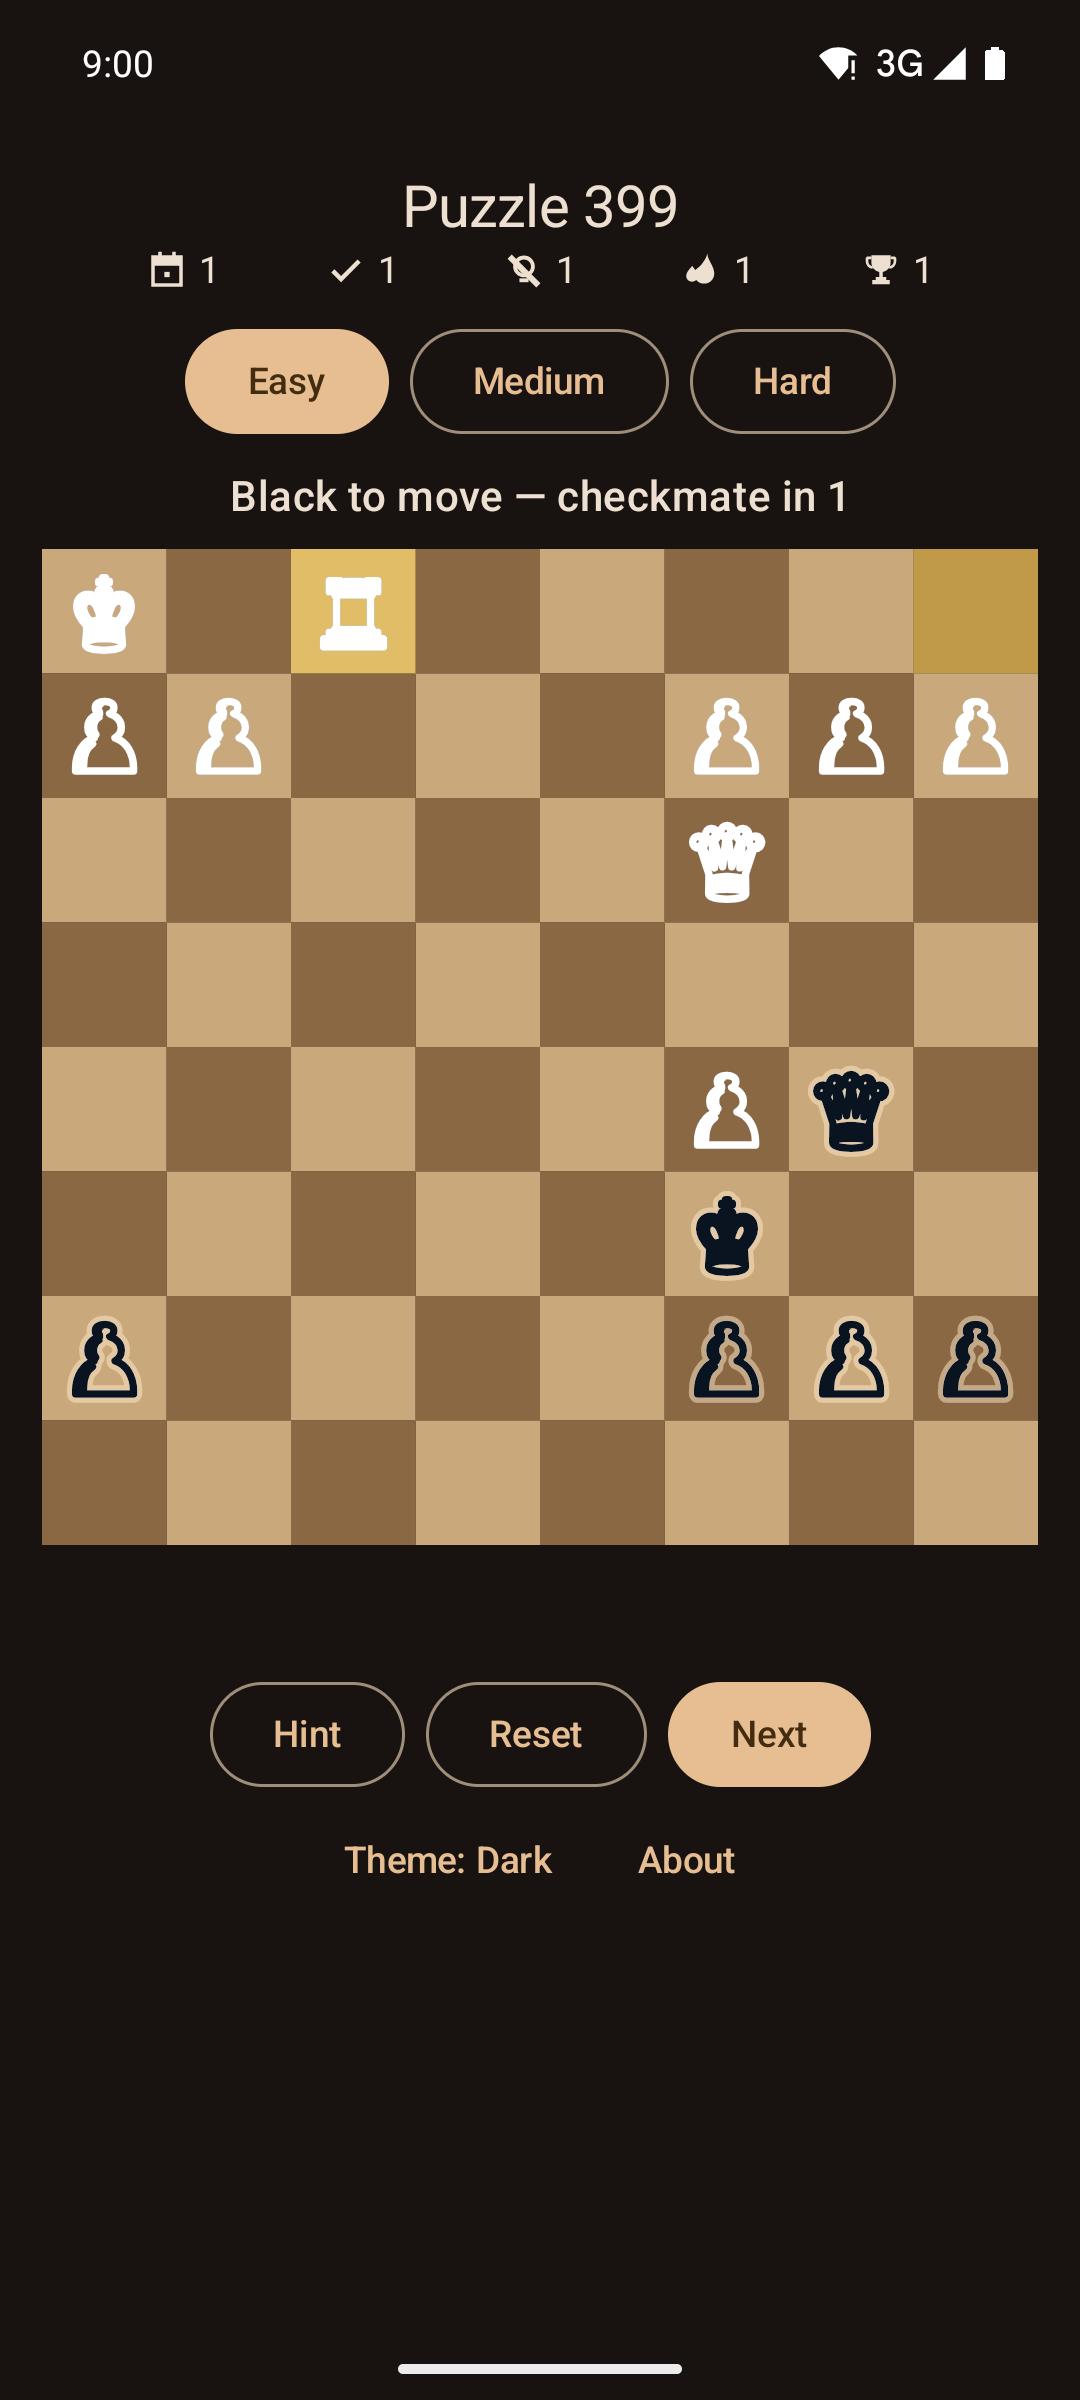
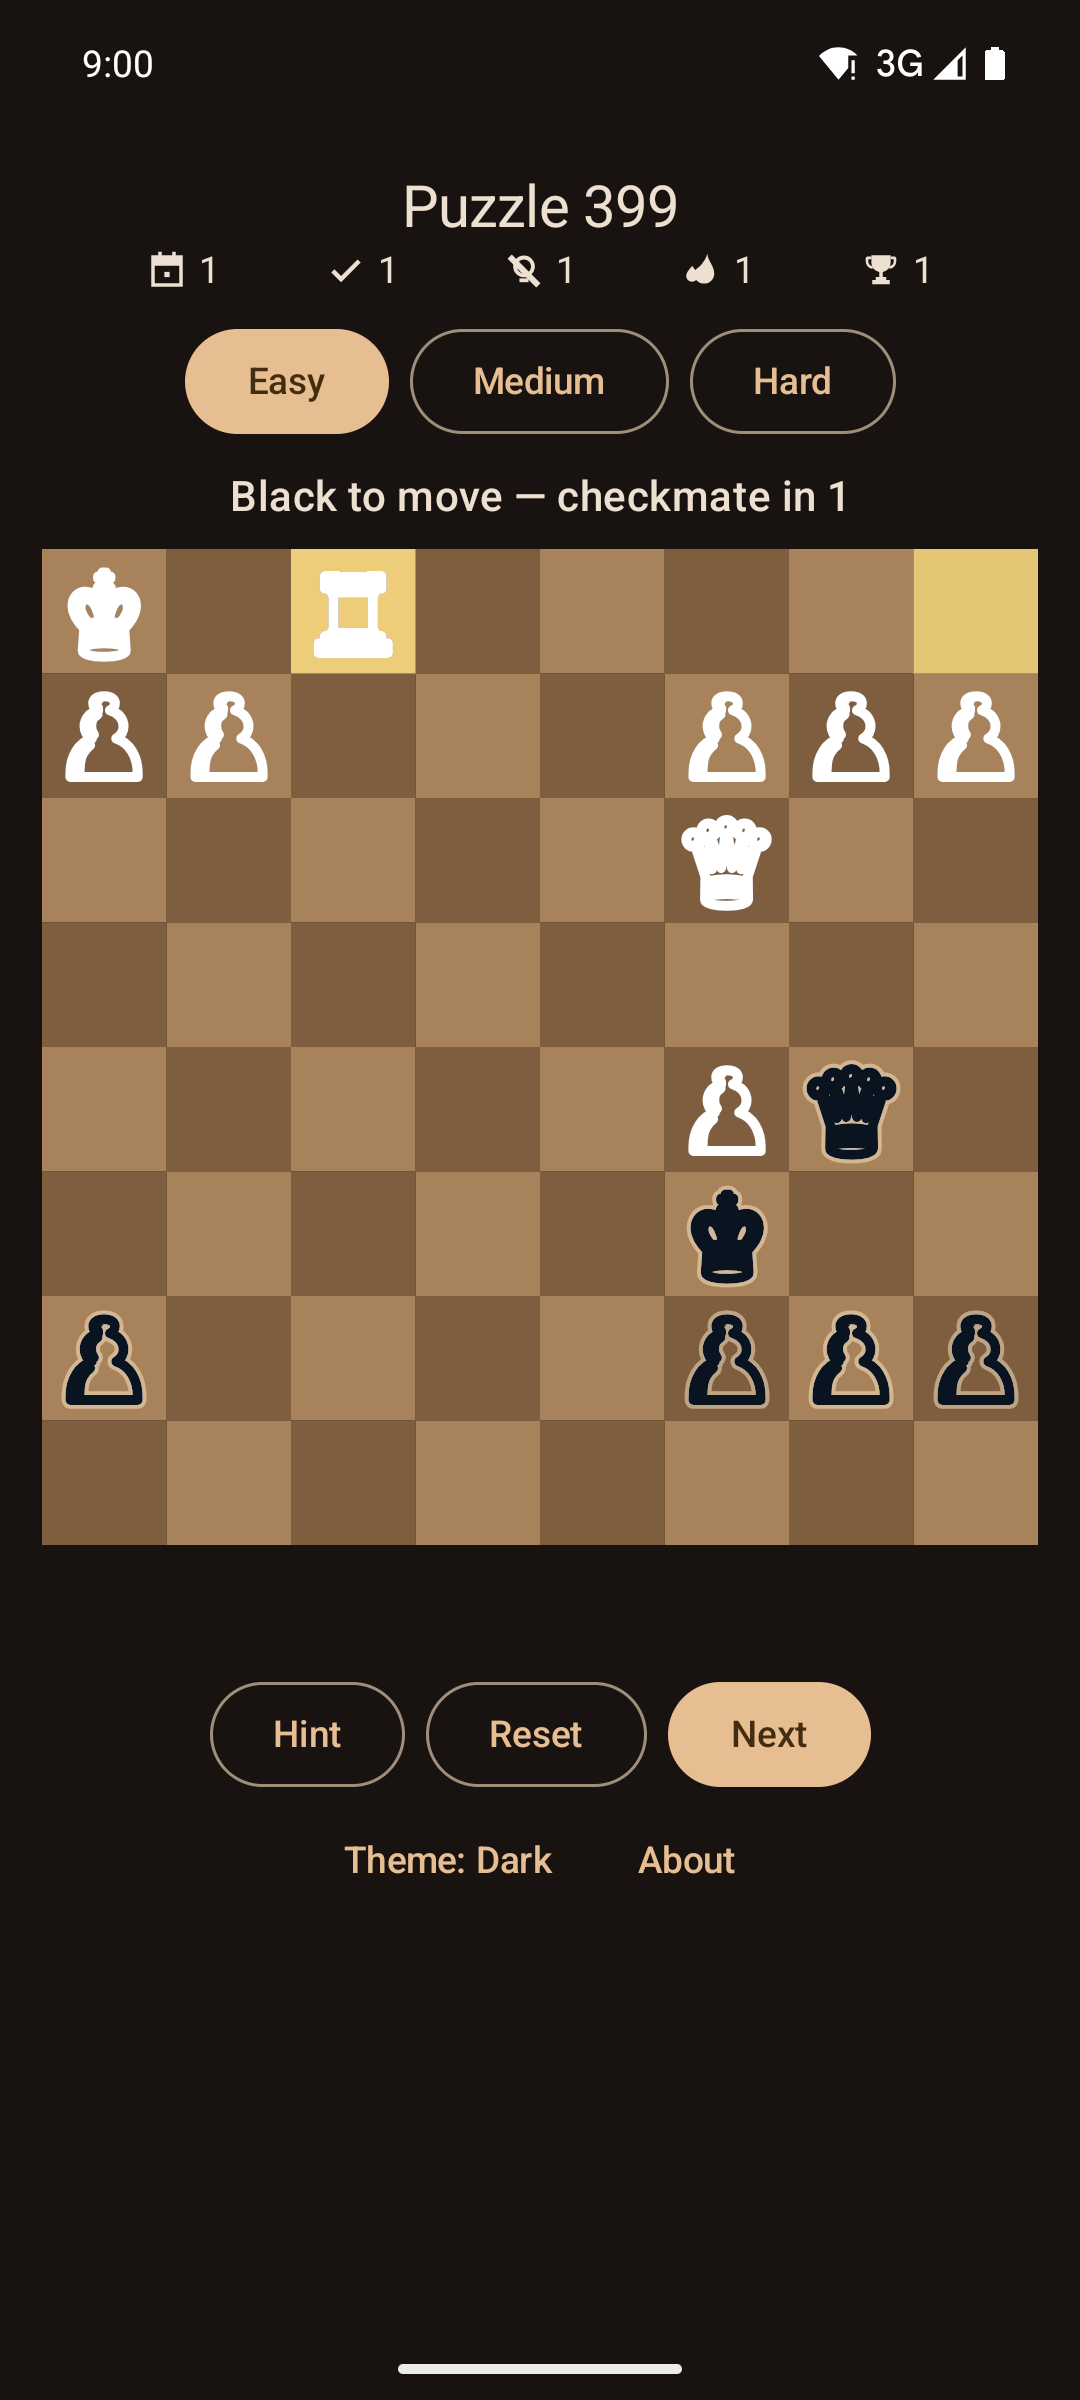
feat: make both piece colours read — bigger pieces, squares pulled into a band (#43)
"The black doesn't catch my attention. Also the white pieces don't."

Both were true, and the numbers show why the previous two passes missed it. A
square at luminance 0.19 is equidistant from white and ink; the light squares
sat at 0.57 (day) and 0.42 (night), far above it, so white sank into them —
white-on-light measured 1.70:1 on the day board, the weakest figure in the app,
untouched by either night fix. Pulling both squares into a narrow mid band lifts
the weaker colour without abandoning the other:

  day    #E0C29A/#9C6B43 -> #B08A61/#8A6844
  night  #C9A87C/#8A6844 -> #A8825A/#7E5E3E
  white on light  1.70 -> 3.16:1 (day),  2.24 -> 3.50:1 (night)
  ink on dark     4.06 -> 3.66:1 (day),  3.66 -> 3.14:1 (night)

Every piece/square combination clears 3:1 for the first time. The cost is
checker contrast (2.69 -> 1.61:1), which the grid itself carries.

Colour was only half of it. Lichess white pieces measure 1.36:1 on their light
square and still read, because the pieces fill the square and carry a crisp
outline. Ours were Unicode glyphs at 74% with a thin rim, so they now sit at 86%
with rims at 0.07/0.08 — 53% more piece area. That is the lever that actually
drives salience.

Tints had to be retuned again: a mid-hue wash lands on a mid-tone board's own
luminance and vanishes (selected fell to 1.03:1). Each tint is now pushed pale
or deep at high alpha, clearing 2:1 on all four squares, and day and night share
[…]

Changed region(s): [[0.0306, 0.2188, 0.9778, 0.6562], [0.275, 0.2188, 0.3667, 0.2812]]

diff --git a/app/src/main/java/dk/cocode/chess/ui/board/BoardPalette.kt b/app/src/main/java/dk/cocode/chess/ui/board/BoardPalette.kt
@@ -19,39 +19,43 @@ data class BoardPalette(
     val darkPieceHaloWidth: Float,
 )
 
-/** Walnut wood, tuned for daylight. */
+/**
+ * Walnut wood, tuned for daylight. The squares sit in a narrow mid band rather than spanning
+ * light-to-dark: a square at luminance 0.19 is equidistant from both piece colours, so pulling them
+ * in is what lets white AND ink clear 3:1 at once. It costs checker contrast (2.69 -> 1.61:1), which
+ * the eye reads easily anyway from the grid.
+ */
 val DayBoardPalette = BoardPalette(
-    lightSquare = Color(0xFFE0C29A),
-    darkSquare = Color(0xFF9C6B43),
-    selectedTint = Color(0x6603A9F4),
-    lastMoveTint = Color(0x55FFEB3B),
-    hintTint = Color(0x553F51B5),
-    marker = Color(0x40000000),
+    lightSquare = Color(0xFFB08A61),
+    darkSquare = Color(0xFF8A6844),
+    selectedTint = Color(0xE0A5E4FF),
+    lastMoveTint = Color(0xCCFFE082),
+    hintTint = Color(0xCC1A237E),
+    marker = Color(0x73000000),
     darkPieceOutline = Color(0xFFEDEDED),
-    pieceOutlineWidth = 0.05f,
+    pieceOutlineWidth = 0.07f,
     darkPieceHalo = Color.Transparent,
     darkPieceHaloWidth = 0f,
 )
 
 /**
- * The walnut board for a dark room. Dimming it further is what used to bury the pieces: against a
- * deep dark square a #0A1420 fill managed only 1.5-2:1, so the rim and aura had to carry the whole
- * silhouette. These squares keep the ink pieces at 3.66:1 on dark and 8.27:1 on light — legible on
- * their own — at the cost of a board that is only a little dimmer than day.
+ * The same narrow band as day, shifted one step down for a dark room. Dimming it further is what
+ * used to bury the pieces: against a deep dark square a #0A1420 fill managed only 1.5-2:1, so the
+ * rim and aura had to carry the whole silhouette.
  *
- * Because the board is now mid-tone rather than deep, the highlight tints follow the day treatment:
- * they read by hue at roughly 1.2-1.9:1, the same range the day tints already ship at. The old
- * night set was brightened for a deep board and would sink to ~1.0:1 on these squares.
+ * Both boards being mid-tone, the tints are shared: a mid-hue wash (the old #03A9F4 at 40-53%)
+ * lands on the squares' own luminance and vanishes — 1.0:1 — so each tint is pushed to an extreme,
+ * pale or deep, at high alpha. Every one clears 2:1 on all four squares.
  */
 val NightBoardPalette = BoardPalette(
-    lightSquare = Color(0xFFC9A87C),
-    darkSquare = Color(0xFF8A6844),
-    selectedTint = Color(0x8803A9F4),
-    lastMoveTint = Color(0x77FFD54F),
-    hintTint = Color(0x77303F9F),
-    marker = Color(0x59000000),
+    lightSquare = Color(0xFFA8825A),
+    darkSquare = Color(0xFF7E5E3E),
+    selectedTint = Color(0xE0A5E4FF),
+    lastMoveTint = Color(0xCCFFE082),
+    hintTint = Color(0xCC1A237E),
+    marker = Color(0x73000000),
     darkPieceOutline = Color(0xFFFAFAFA),
-    pieceOutlineWidth = 0.06f,
+    pieceOutlineWidth = 0.08f,
     darkPieceHalo = Color(0x80FFE9C8),
     darkPieceHaloWidth = 0.14f,
 )

diff --git a/app/src/test/java/dk/cocode/chess/ui/board/BoardPaletteTest.kt b/app/src/test/java/dk/cocode/chess/ui/board/BoardPaletteTest.kt
@@ -25,13 +25,16 @@ class BoardPaletteTest {
     }
 
     /**
-     * The dark squares are tuned around [PIECE_DARK]: both boards keep the ink pieces above the
-     * WCAG 3:1 bar for non-text, which is what stops them sinking into the wood. Prose cannot
-     * enforce that — dimming the night board any further breaks it.
+     * The squares sit in a narrow mid band so that BOTH piece colours clear the WCAG 3:1 bar for
+     * non-text on the square each one is worst against — ink on dark, white on light. Widening the
+     * band (a lighter light square, or a deeper dark one) buys checker contrast by sinking a piece
+     * colour into the wood, which is exactly what this guards.
      */
-    @Test fun darkPiecesStayLegibleOnTheSquaresTheySitOn() {
+    @Test fun bothPieceColoursStayLegibleOnTheSquaresTheySitOn() {
         assertTrue(contrast(PIECE_DARK, DayBoardPalette.darkSquare) > 3f)
         assertTrue(contrast(PIECE_DARK, NightBoardPalette.darkSquare) > 3f)
+        assertTrue(contrast(PIECE_WHITE, DayBoardPalette.lightSquare) > 3f)
+        assertTrue(contrast(PIECE_WHITE, NightBoardPalette.lightSquare) > 3f)
     }
 
     /** WCAG contrast ratio between two opaque colors. */

diff --git a/app/src/main/java/dk/cocode/chess/ui/board/BoardDrawing.kt b/app/src/main/java/dk/cocode/chess/ui/board/BoardDrawing.kt
@@ -51,7 +51,7 @@ internal fun DrawScope.drawPieces(
     flipped: Boolean,
     textMeasurer: TextMeasurer,
 ) {
-    val fontSize = (squarePx * 0.74f).toSp()
+    val fontSize = (squarePx * 0.86f).toSp()
     val outlineWidth = squarePx * palette.pieceOutlineWidth
     for (rank in 0..7) {
         for (file in 0..7) {
